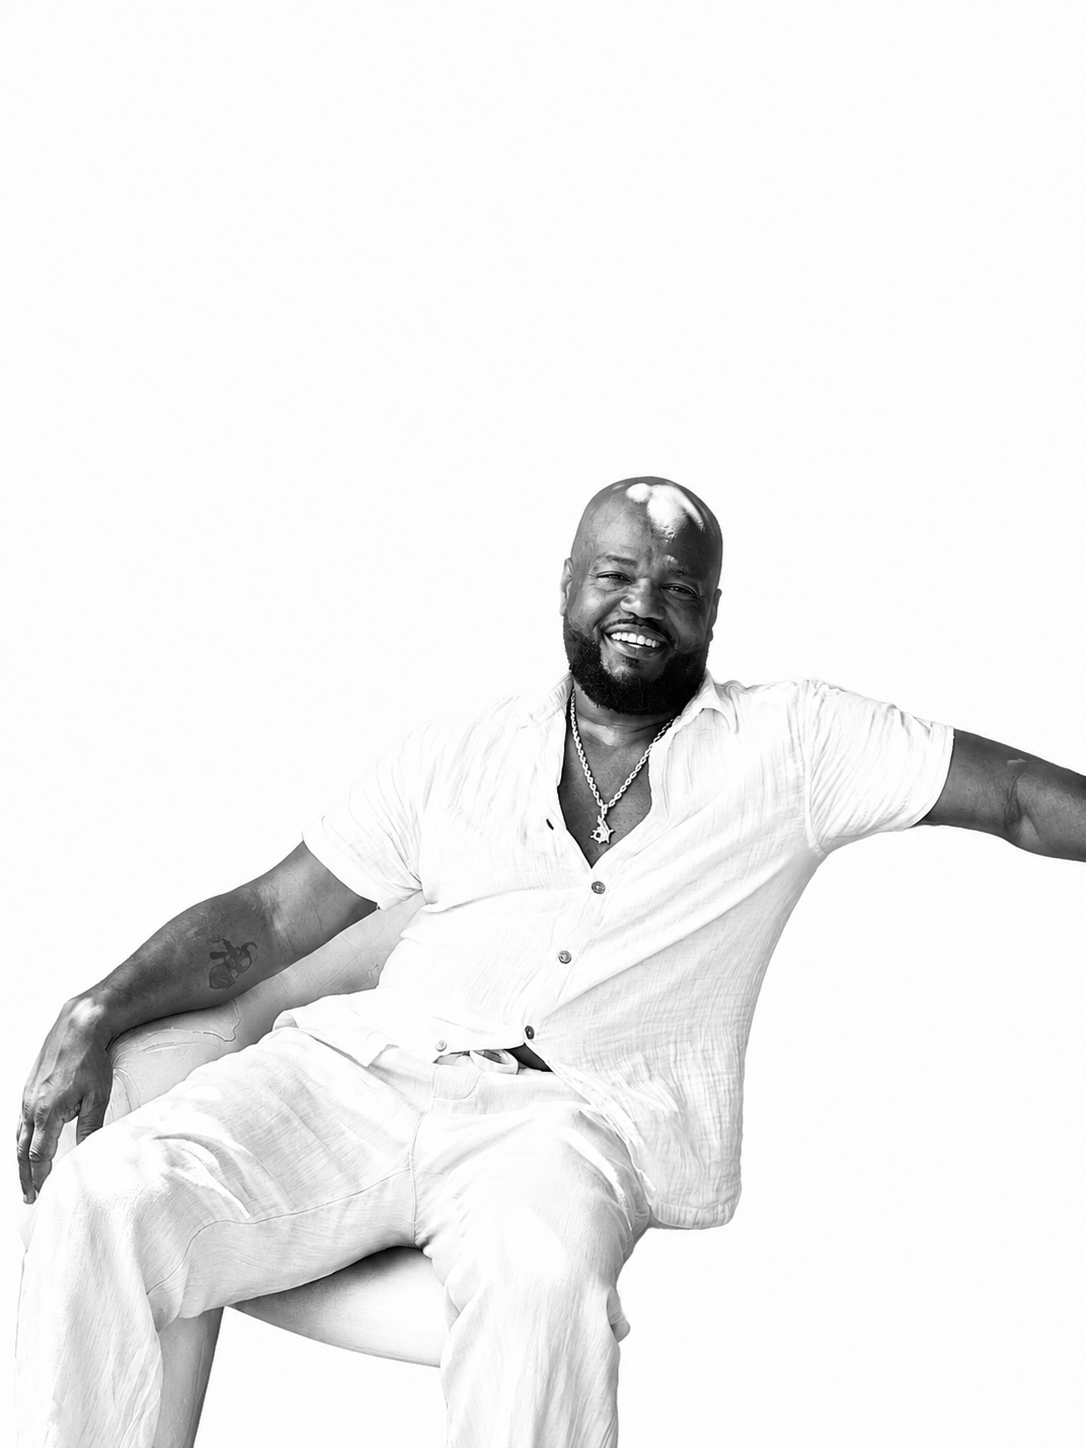
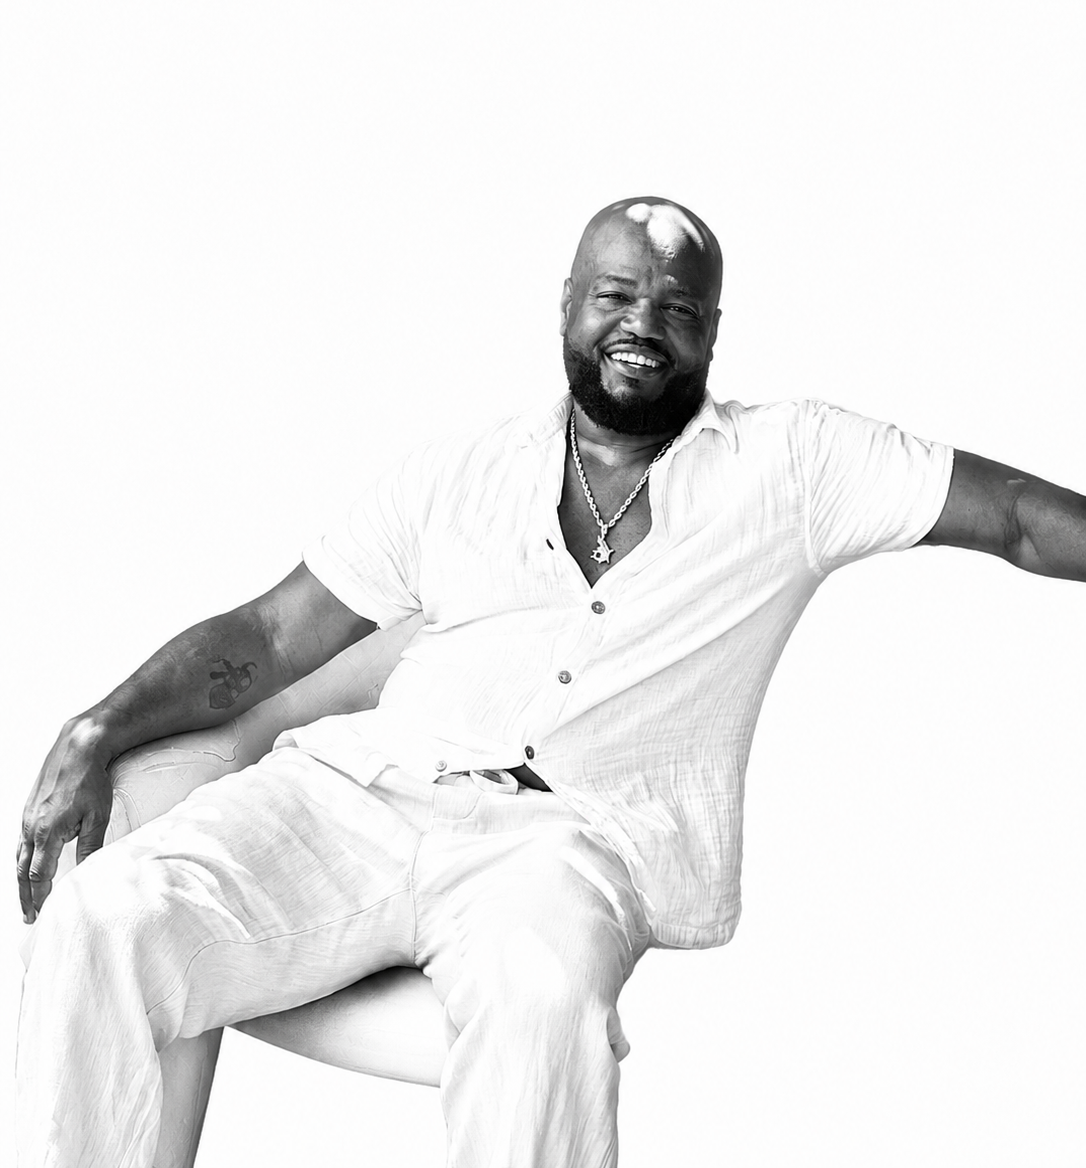
Fix excessive white space above the homepage hero photo
The solo portrait had ~30% of blank studio background above the
subject's head. On mobile the hero container is taller (in aspect
terms) than the photo, so object-cover always showed the full image
height — meaning that blank space was unavoidable there no matter
what object-position was set. Cropped the source image down to the
subject instead of fighting it with CSS, and adjusted both
object-position constants to match the new crop.

Changed region(s): [[0.0, 0.1541, 1.0, 0.9863], [0.7293, 0.339, 0.7597, 0.3699], [0.0608, 0.863, 0.0912, 0.8938]]

diff --git a/client/src/components/hero.tsx b/client/src/components/hero.tsx
@@ -11,8 +11,8 @@ const HERO_IMAGE_DESKTOP = "/attached_assets/Sean-Austin-Fi-Yu-Forever-Solo.png"
 const HERO_IMAGE_MOBILE = "/attached_assets/Sean-Austin-Fi-Yu-Forever-Solo.png";
 // object-position as "horizontal% vertical%" — adjust to re-center the subject
 // after swapping in a different photo. Never stretches; always object-fit: cover.
-const HERO_POSITION_DESKTOP = "82% 8%";
-const HERO_POSITION_MOBILE = "50% 12%";
+const HERO_POSITION_DESKTOP = "82% 24%";
+const HERO_POSITION_MOBILE = "50% center";
 
 const SPOTIFY_URL = "https://open.spotify.com/artist/0ZTUFRHKN1R7Se9eq5QTAT";
 
